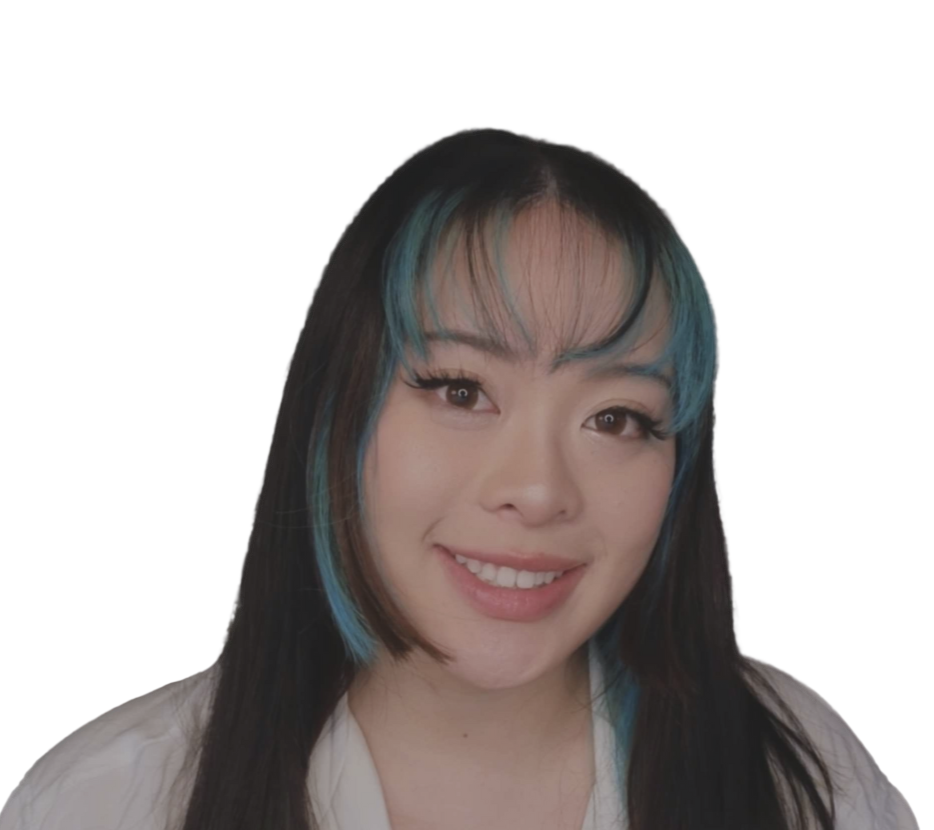
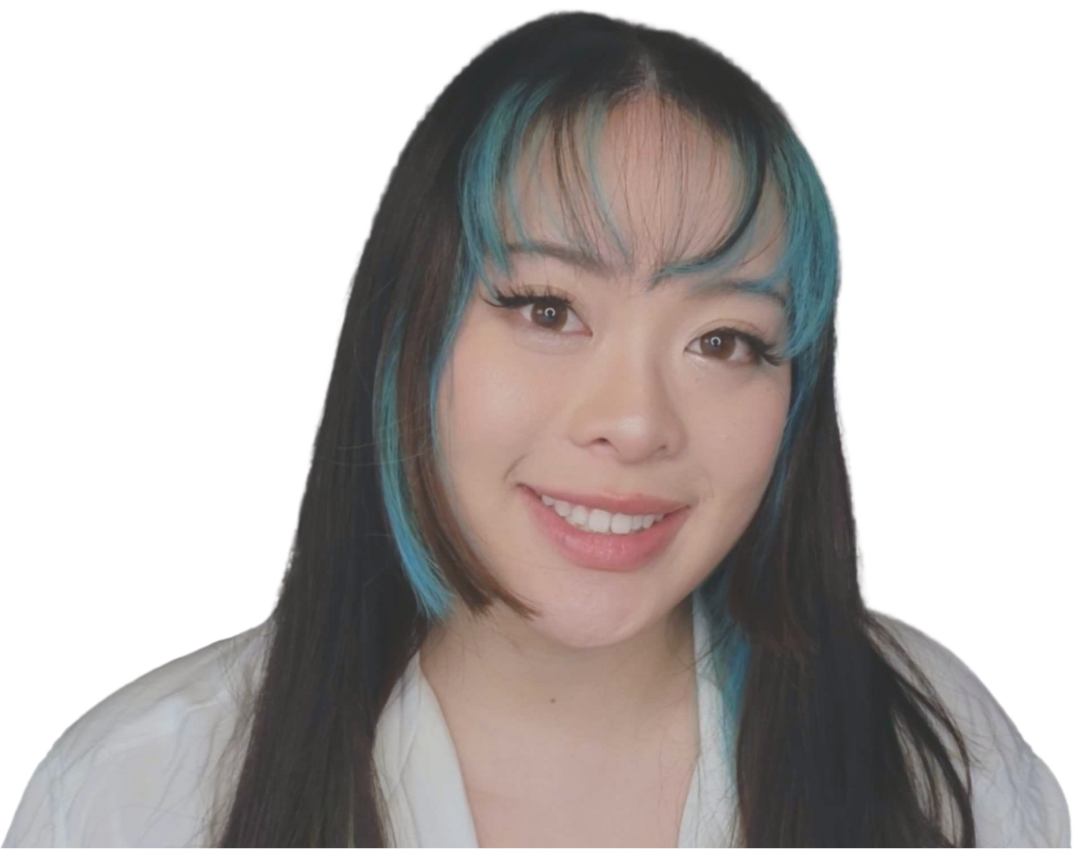
finished hero need to add animations

diff --git a/src/components/Hero.jsx b/src/components/Hero.jsx
@@ -1,8 +1,10 @@
 import { motion } from "framer-motion";
 import { Link } from "react-router-dom";
 import React, { useEffect, useState } from "react";
-// import portraitImage from '../assets/portraitImage.png';
-import portraitImage2 from '../assets/portrait2.jpeg';
+import portraitImage from '../assets/portraitImage.png';
+// import portraitImage from '../assets/portrait2.png';
+// import portraitImage from '../assets/portrait3.png';
+// import portraitImage from '../assets/portrait4.png';
 
 
 import { styles } from "../styles";
@@ -20,12 +22,11 @@ const Hero = () => {
             Hi, I'm <span className='radley-regular-italic text-[#7F886A]'>Alivia</span> and I am a
           </p>
           </div>
-        <div className="hero-title w-full text-center relative">
+        <div className="hero-title w-full text-center relative hover:z-50">
 
           <a href='#work'>
           <h1 className={`${styles.heroHeadText}
-          fxnow-font hero-head-text text-transparent hover::
-          `}>
+          fxnow-font hero-head-text text-transparent hover::`}>
             F U L L  S T A C K
             <br/>
             <span className='fxnow-font'>
@@ -33,16 +34,11 @@ const Hero = () => {
             </span>
           </h1>
             </a>
-          <p className={`${styles.heroSubText} radley-regular-italic`}>
-based in Seattle, Washington
-          </p>
         </div>
       </div>
-        <div className="relative w-[100%] h-[50%] 
-      ">
+        <div className="absolute xs:bottom-0 bottom-0 w-full flex justify-center items-center">
         <img
-          // src={portraitImage}
-          src={portraitImage2}
+          src={portraitImage}
           className='mx-auto'
           loading="lazy"
         />

diff --git a/src/components/About.jsx b/src/components/About.jsx
@@ -53,7 +53,7 @@ const About = () => {
             className=
               'flex flex-col text-secondary text-[17px] leading-[30px]'
           >
-        I'm a web developer with a mastery with Javascript, and frameworks like React, Node.js, and Three.js.
+        I'm a web developer based in Seattle, Washington with a mastery with Javascript, and frameworks like React, Node.js, and Three.js.
             I collaborate closely with clients to create stunning, scalable, and user-friendly solutions to bring your vision to life.
             <br/>
             <br/>

diff --git a/src/index.css b/src/index.css
@@ -29,7 +29,7 @@ box-shadow: 0 0 8px 10px #A79B8F inset;
 }
 
 
-.hash-span {
+.hash- {
   margin-top: -100px;
   padding-bottom: 100px;
   display: block;
